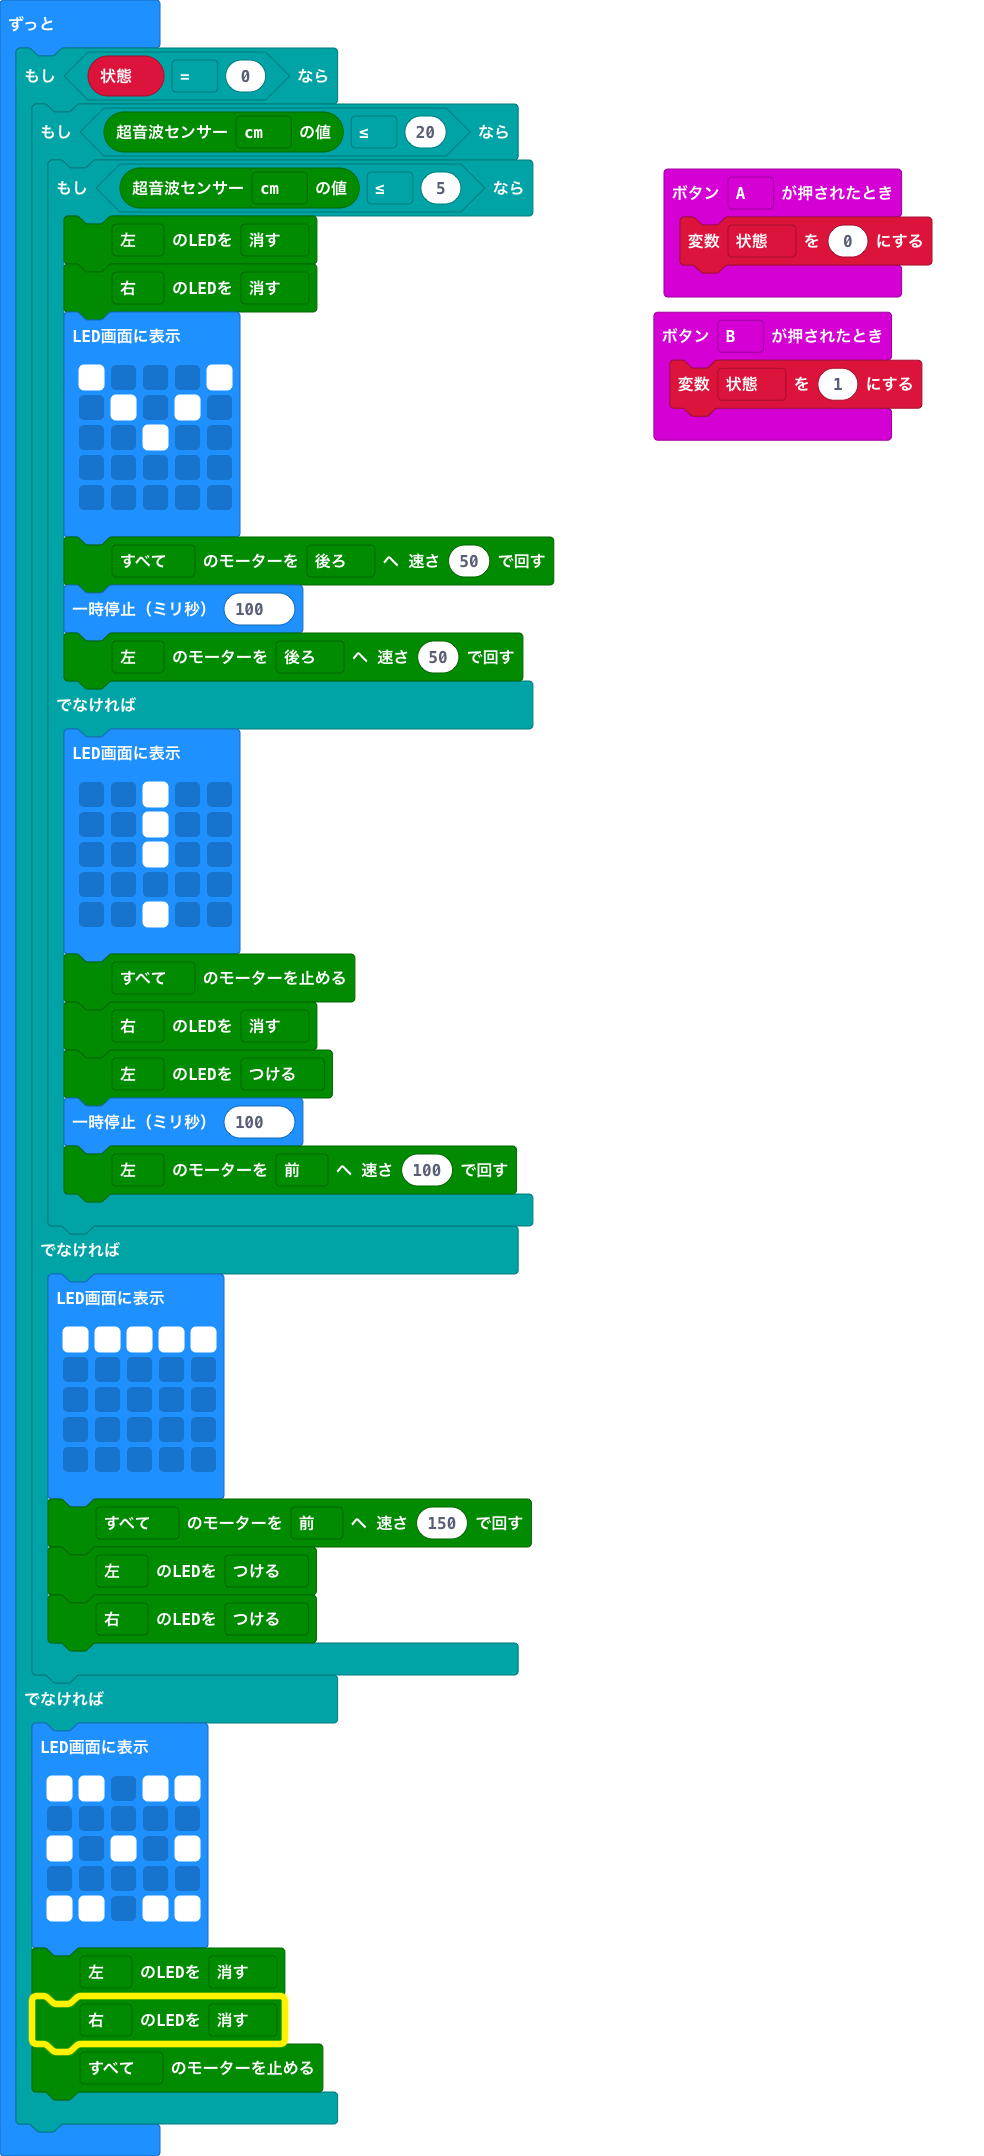
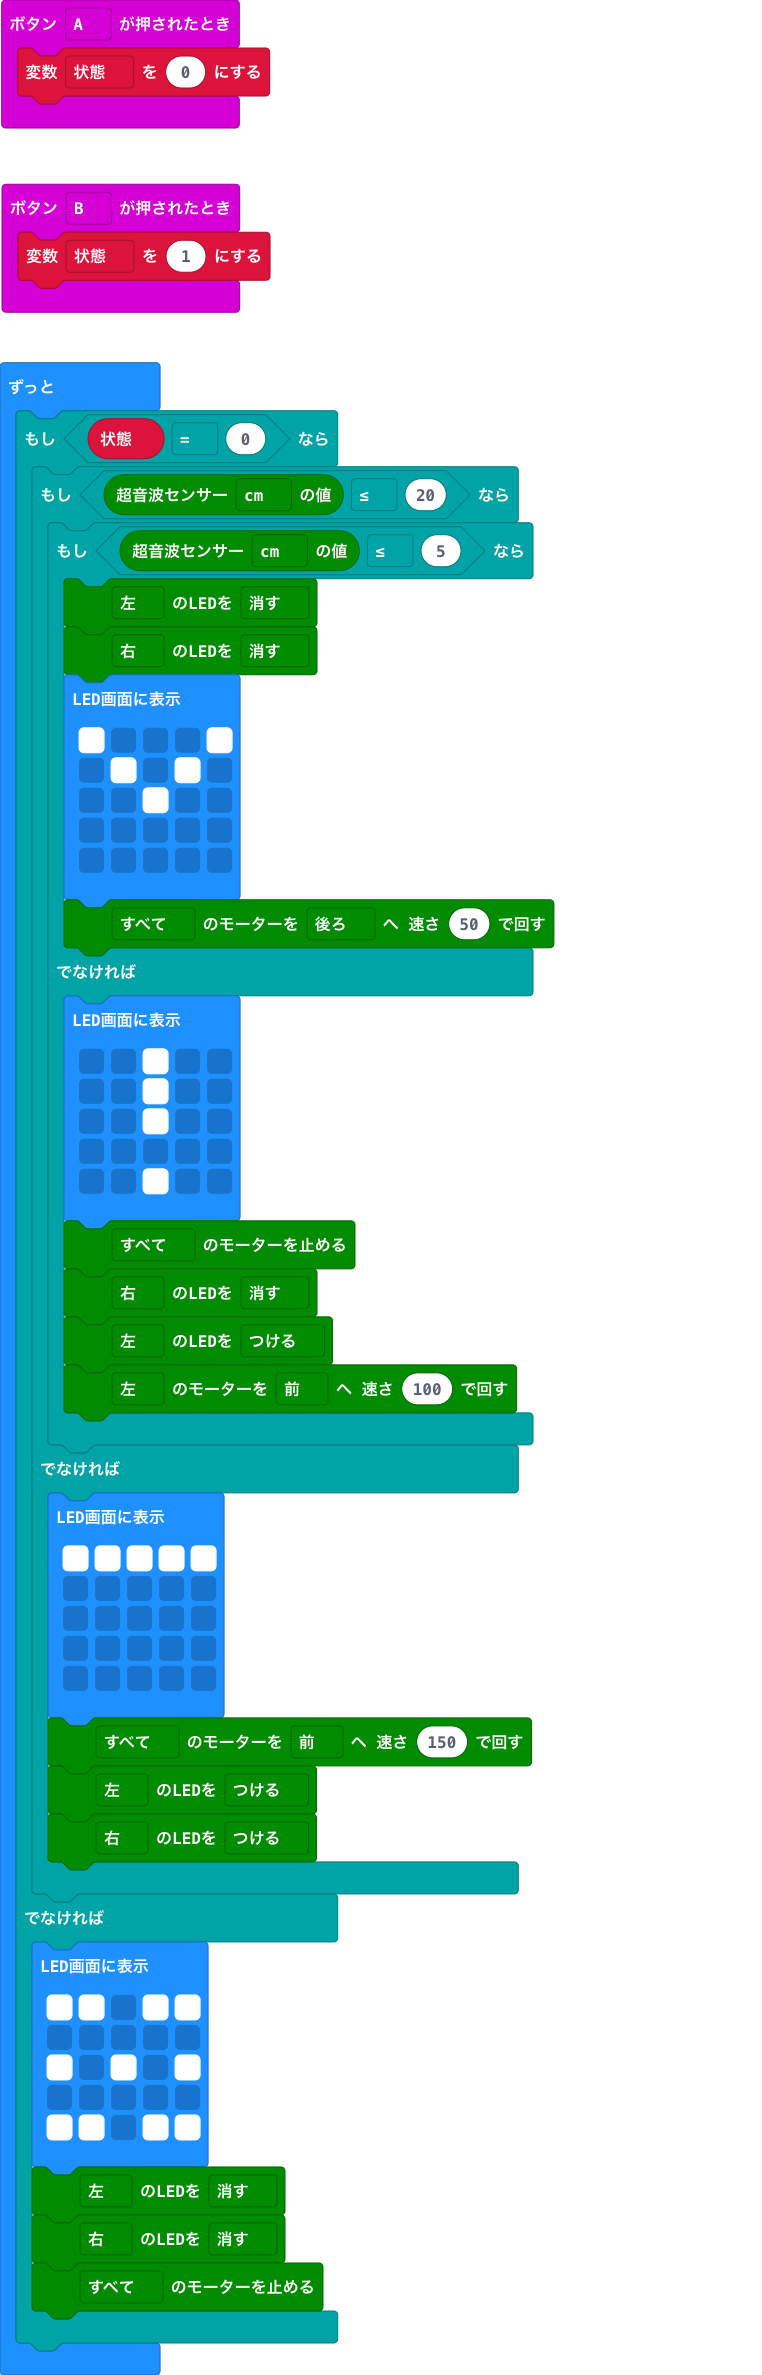
最後のラストアップデート

diff --git a/main.ts b/main.ts
@@ -19,8 +19,6 @@ basic.forever(function () {
                     . . . . .
                     `)
                 maqueen.motorRun(maqueen.Motors.All, maqueen.Dir.CCW, 50)
-                basic.pause(100)
-                maqueen.motorRun(maqueen.Motors.M1, maqueen.Dir.CCW, 50)
             } else {
                 basic.showLeds(`
                     . . # . .
@@ -32,7 +30,6 @@ basic.forever(function () {
                 maqueen.motorStop(maqueen.Motors.All)
                 maqueen.writeLED(maqueen.LED.LEDRight, maqueen.LEDswitch.turnOff)
                 maqueen.writeLED(maqueen.LED.LEDLeft, maqueen.LEDswitch.turnOn)
-                basic.pause(100)
                 maqueen.motorRun(maqueen.Motors.M1, maqueen.Dir.CW, 100)
             }
         } else {
